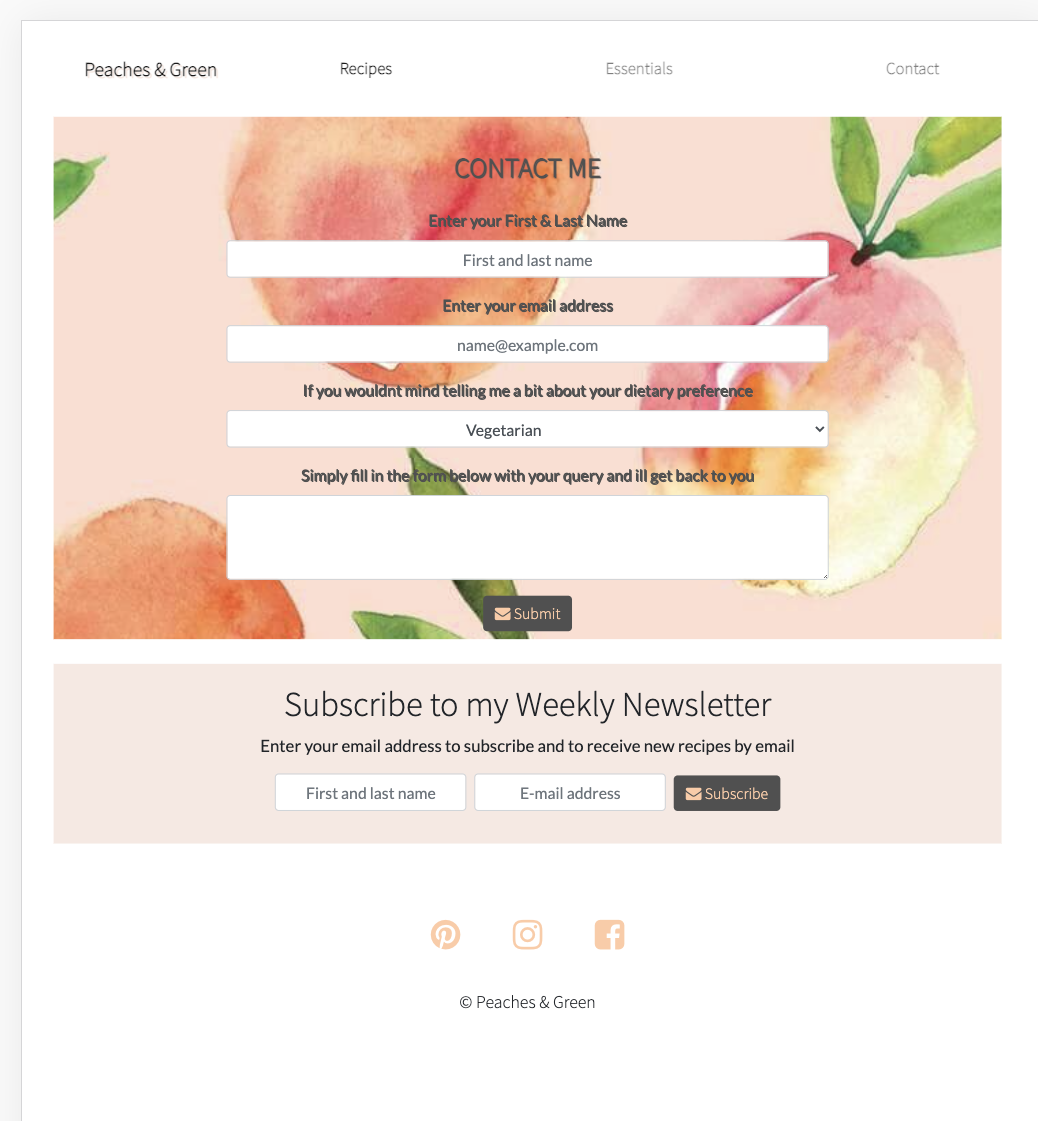
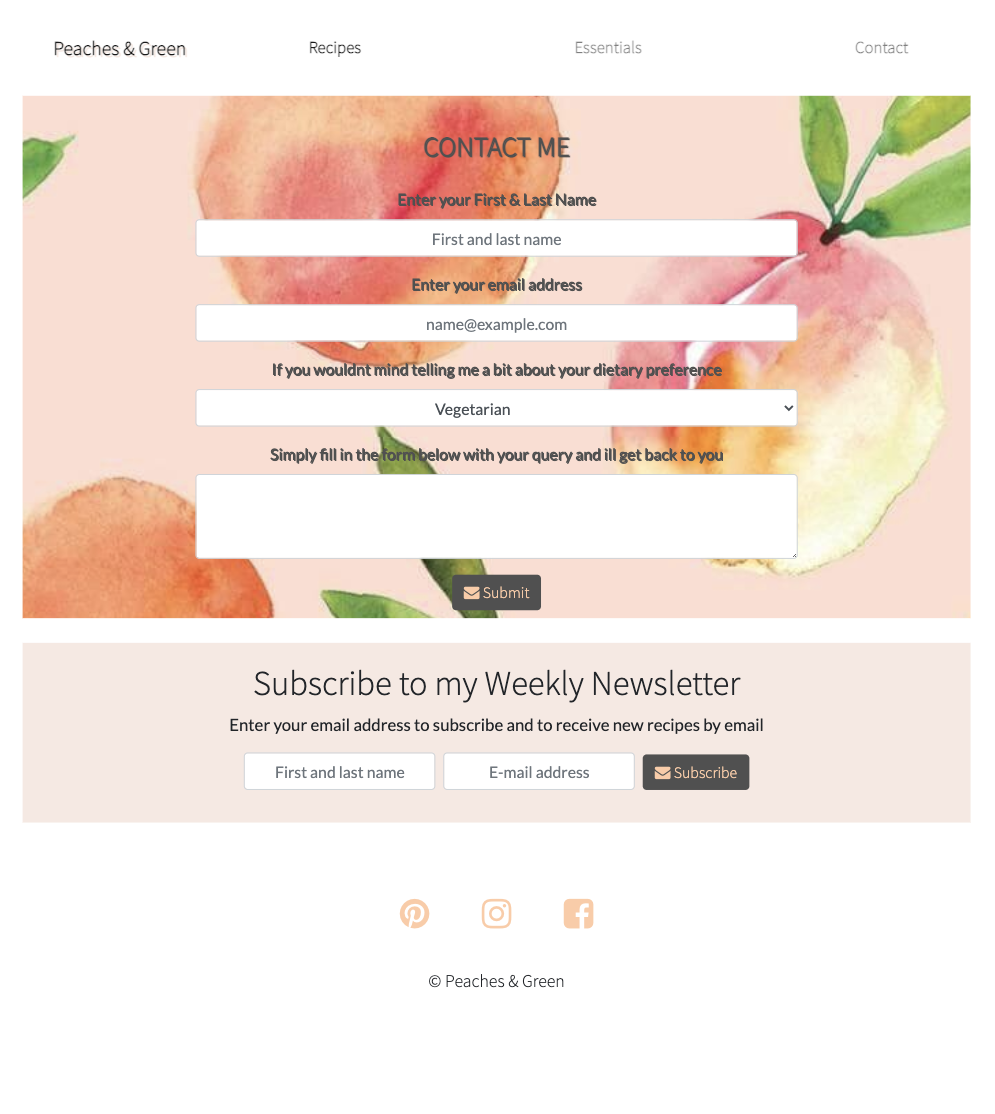
updated screenshots

diff --git a/README.md b/README.md
@@ -35,7 +35,7 @@ they can create in the Kitchen and what new recipes are on offer.
 - As a user I would like to see what socials media platforms the business uses
 - As a user I want the website to be responsive on whichever device I'm viewing it on (The screenshot below is on an Ipad)
 
-![Contact Page](https://github.com/MWatty/Peaches-n-Green/blob/master/assets/images/sscontact1.png "Contact Page")
+![Contact Page](https://github.com/MWatty/Peaches-n-Green/blob/master/assets/images/sscontact.png "Contact Page")
 
 - As a user I want to find the website attractive and informative
 - As a user I want a visual aid as to what the recipe should look like
